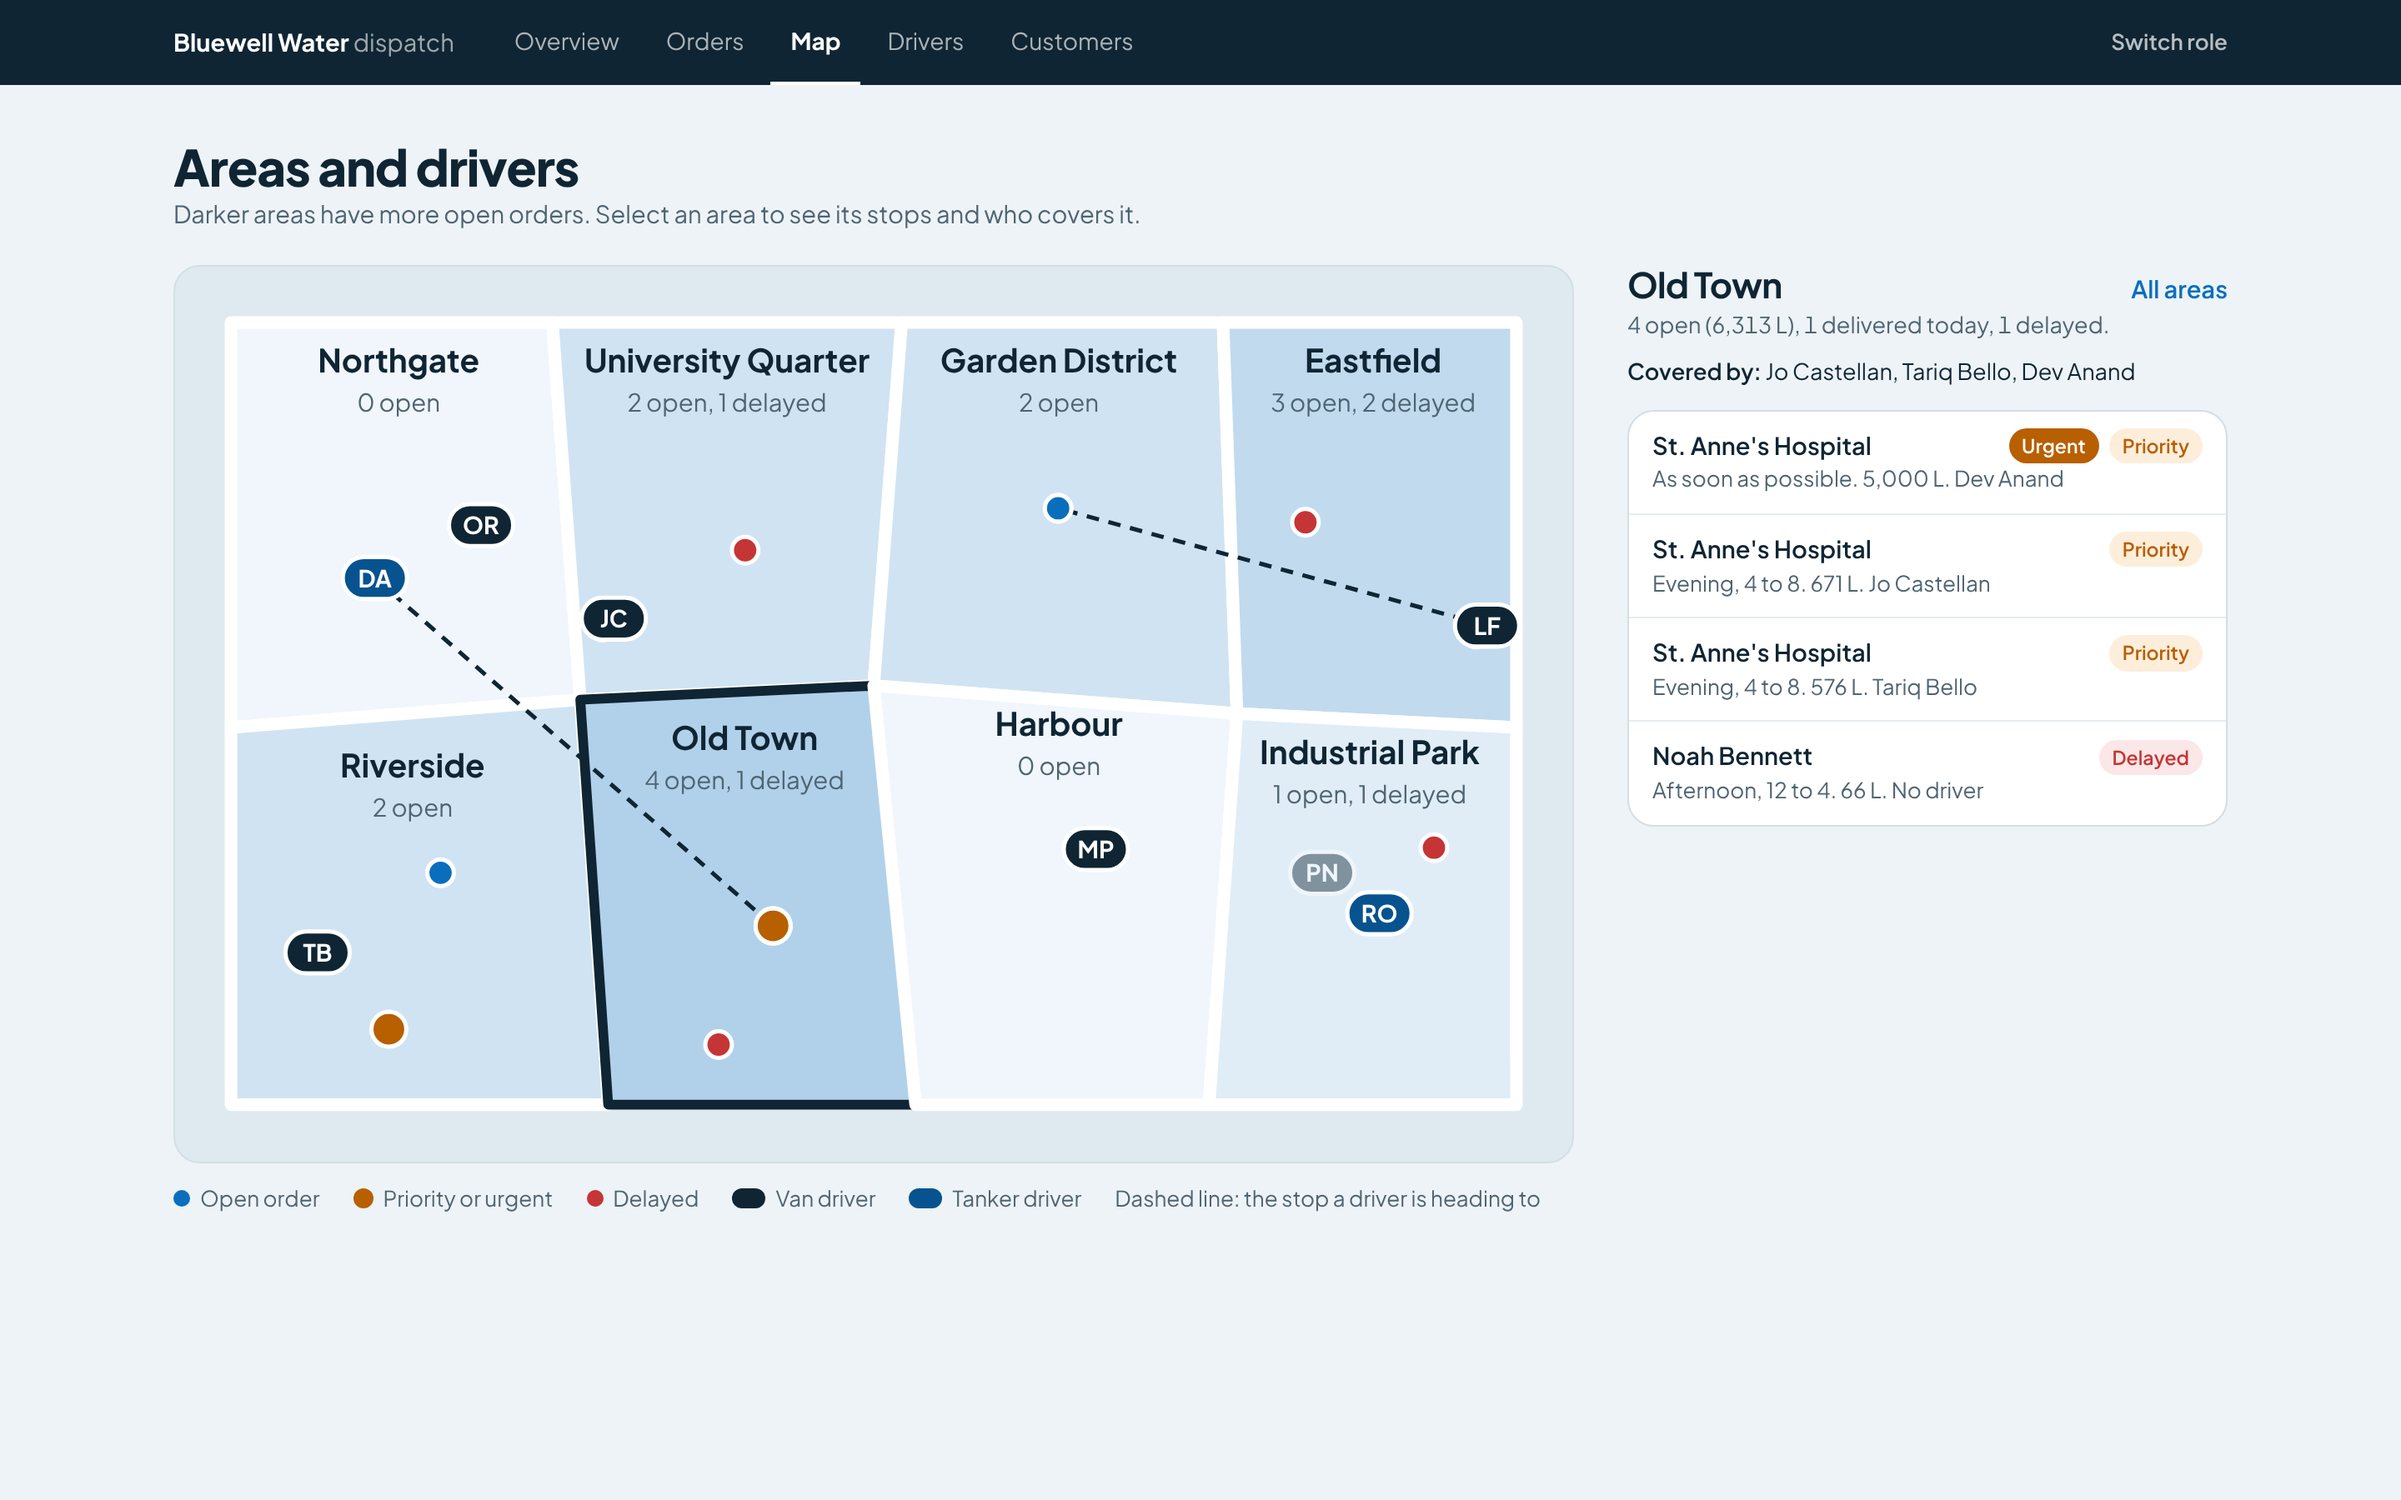
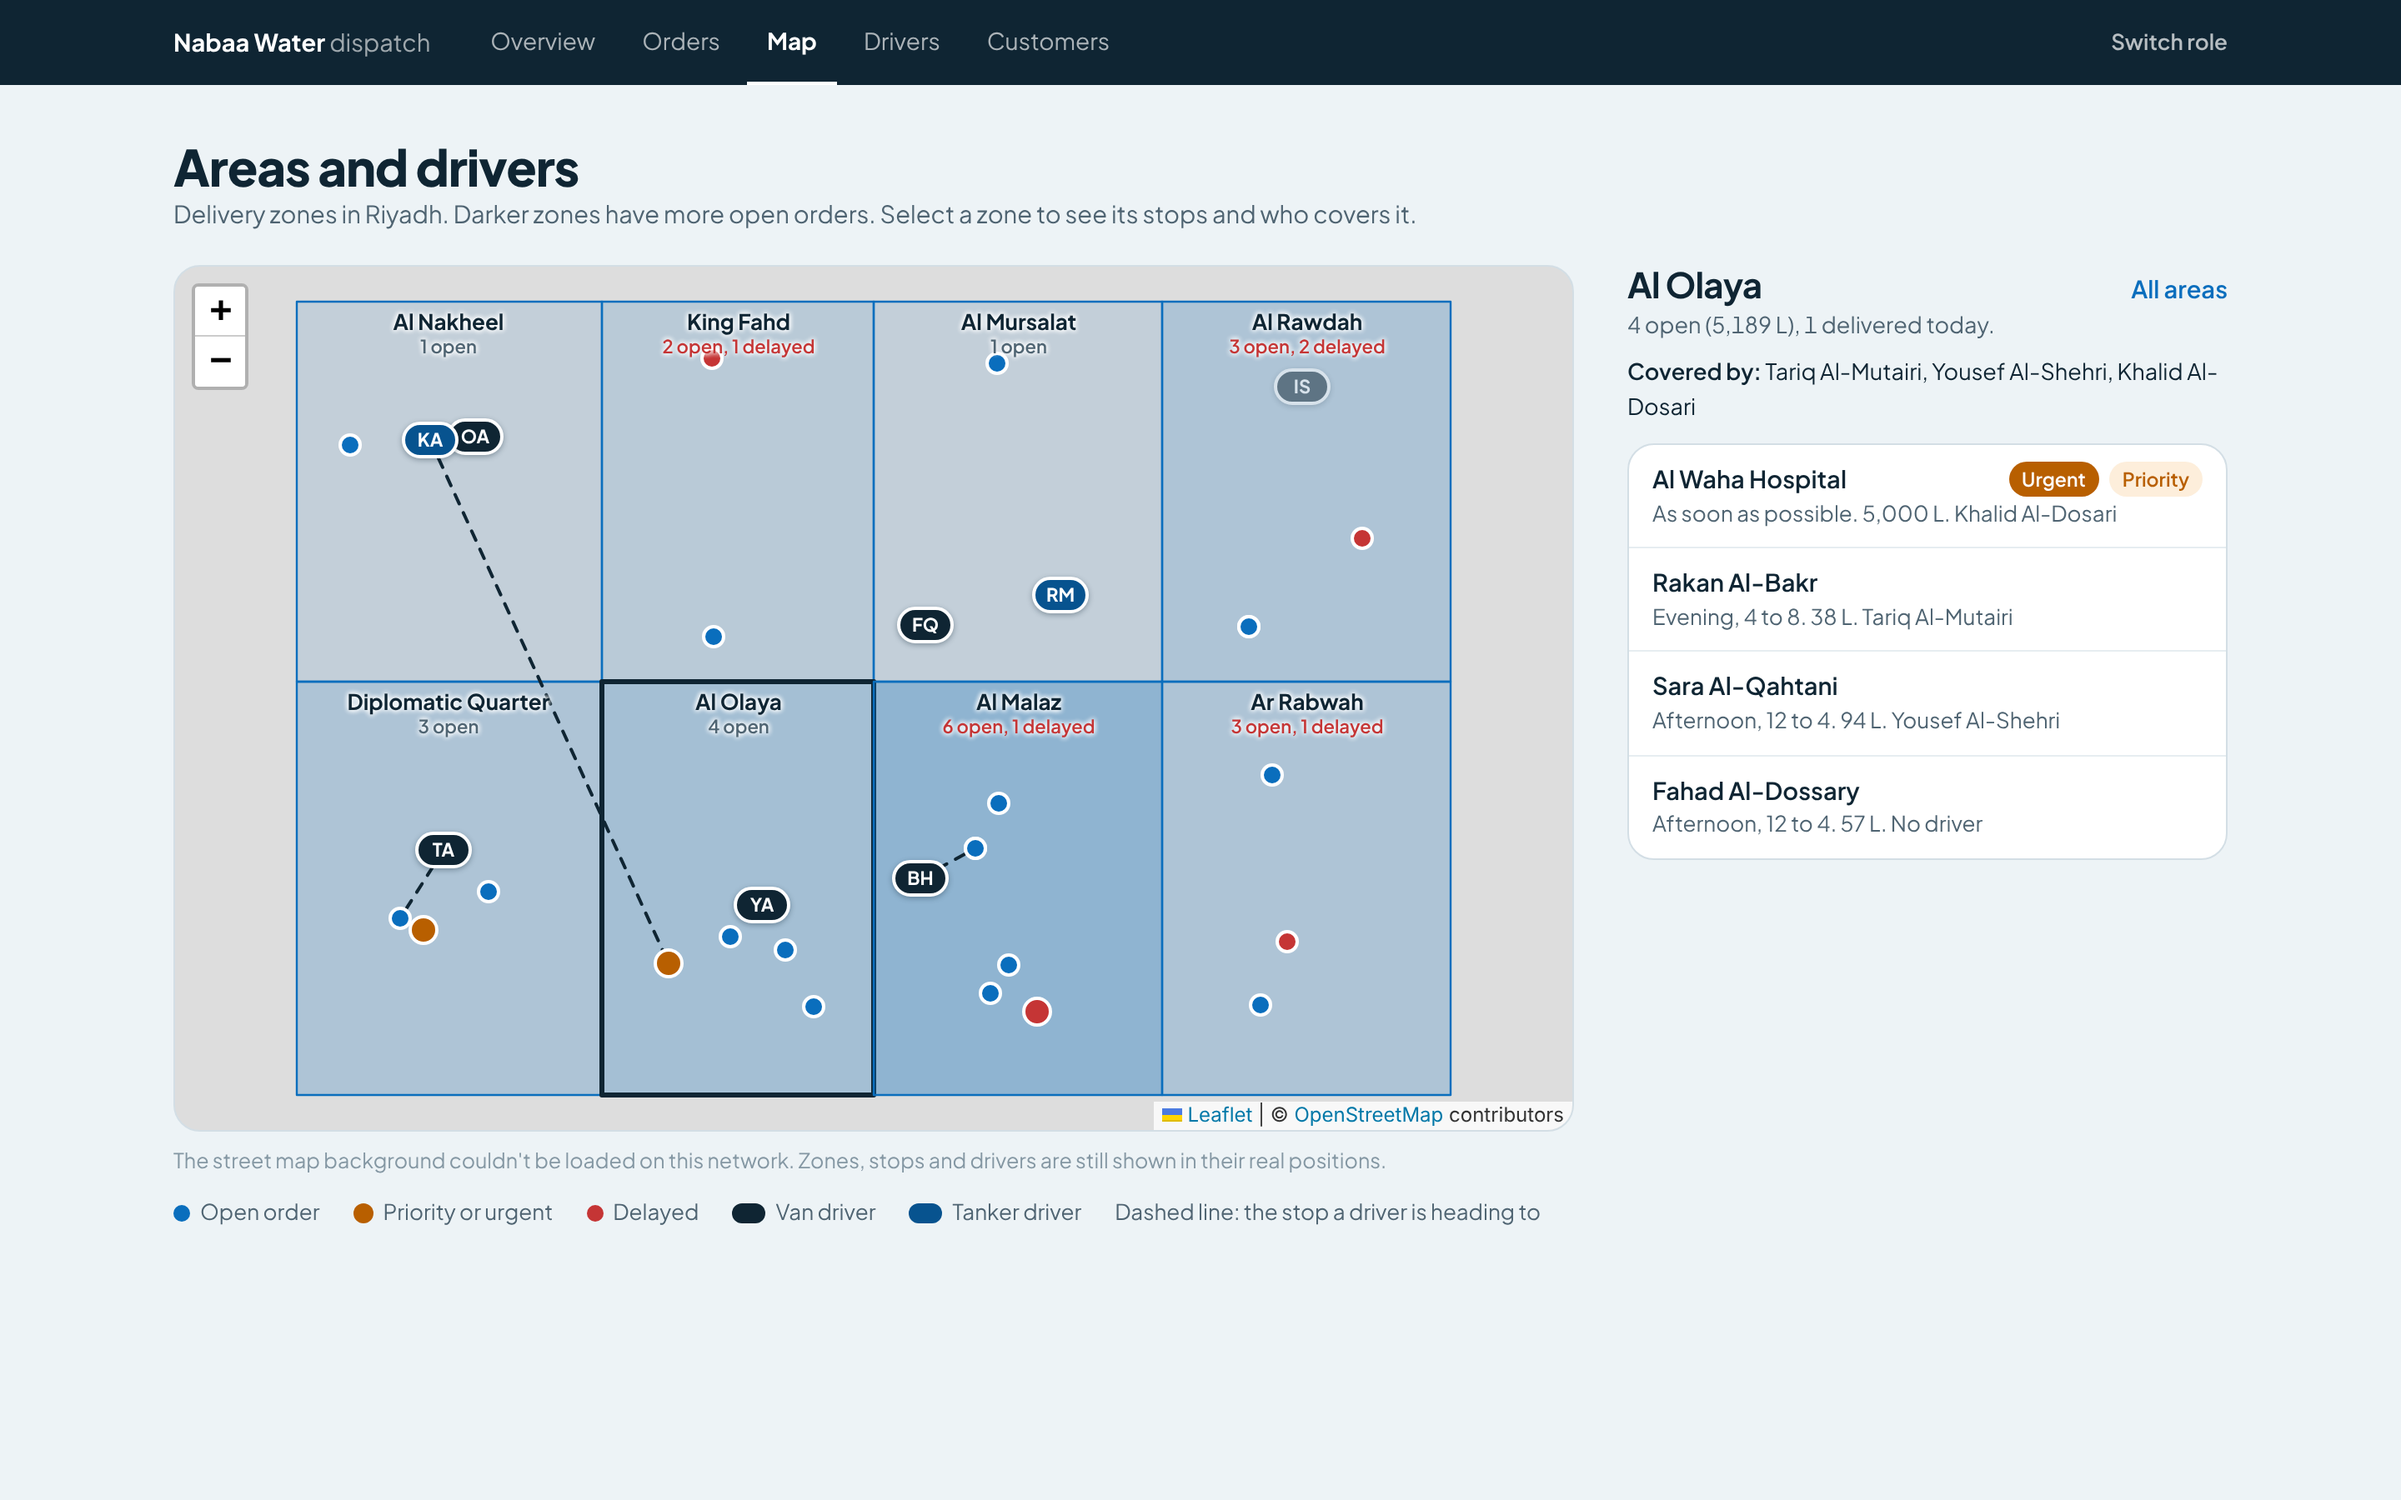
Update showcase: street map, online payment, Riyadh demo
Claude-Session: https://claude.ai/code/session_01M8SimBaVcYoYiN7jzU7DBg

diff --git a/README.md b/README.md
@@ -2,9 +2,9 @@
 
 **Online ordering, dispatch and a driver app for a water delivery business, in one system.**
 
-![A customer requesting urgent delivery from the nearest delivery person](screenshots/urgent-order.gif)
+![A customer ordering urgently and paying by card](screenshots/order-and-pay.gif)
 
-*Above: a customer adds bottles, taps "I need it now", sees the delivery people on duty nearby and sends the order to the nearest one.*
+*Above: a customer adds bottles, taps "I need it now", sees the delivery people on duty nearby, pays by card and the order goes to the nearest one.*
 
 ---
 
@@ -18,22 +18,23 @@ Most water delivery businesses run on phone calls, chat messages and a notebook.
 - **Order the way they think about water:** by the bottle (19 L, 5 L, packs), or in bulk by the litre or gallon for a tanker. The total shows in litres, gallons and bottle count as they build the order.
 - **Book delivery to the door:** pick a date and a morning, afternoon or evening slot, up to 30 days ahead.
 - **Get it urgently:** see the delivery people on duty nearby with distance and arrival time, call them, or send the order straight to one.
+- **Pay online or in cash:** by card when ordering, or cash on delivery. A paid order cancelled before it leaves is refunded automatically.
 - **Track it:** placed, driver assigned, on the way, delivered. Call the driver or cancel before it leaves.
 
-![Customer app: bottles, bulk order in gallons, and order tracking](screenshots/06-customer-app.png)
+![Customer app: bottles, bulk order in gallons, card payment and order tracking](screenshots/06-customer-app.png)
 
 ### For the office
-- **The numbers:** orders received, litres delivered in total, in bottles and by tanker (with gallons), and money collected, for today, 7 days or 30 days.
+- **The numbers:** orders received, litres delivered in total, in bottles and by tanker (with gallons), and revenue split into online and cash payments, for today, 7 days or 30 days.
 - **Priority deliveries:** hospitals, clinics and care homes are flagged automatically and listed first, with urgent requests.
 - **Delayed deliveries:** anything past its time slot and still not delivered.
 
 ![Dispatch overview](screenshots/02-dispatch-overview.png)
 
-- **Deliveries by date:** every day's orders with filters, search and one-click reassignment to another driver.
+- **Deliveries by date:** every day's orders with payment status, filters, search, one-click reassignment to another driver, and refunds for paid orders that couldn't be delivered.
 
 ![Orders by delivery date](screenshots/03-orders-by-date.png)
 
-- **Areas and drivers:** open orders in each area, each stop, and where every driver is and where they're heading.
+- **Areas and drivers on the map:** delivery zones in Riyadh on a street map (OpenStreetMap), with open orders in each zone, each stop, and where every driver is and where they're heading.
 
 ![Area map with drivers](screenshots/04-area-map.png)
 
@@ -44,6 +45,7 @@ Most water delivery businesses run on phone calls, chat messages and a notebook.
 ### For delivery people
 - Their own sign-in with their assigned areas and today's count: total stops, delivered, pending and delayed.
 - Stops listed in working order: urgent first, then priority customers, then by time slot.
+- Each stop shows whether to collect cash or that it's already paid online, with a Directions link.
 - Start delivery, mark delivered, report a problem, or call the customer. An urgent order a driver can't take passes to the next nearest driver automatically.
 
 <img src="screenshots/07-driver-app.png" alt="Driver app" width="420">
@@ -64,11 +66,11 @@ Bottle orders go to van drivers and bulk orders to tanker drivers. Each kind of 
 
 ## Built with
 
-Node.js and TypeScript (Express, SQLite), React and Tailwind, Docker. Covered by automated tests for pricing, unit conversion, booking rules, urgent matching, driver actions and access control.
+Node.js and TypeScript (Express, SQLite), React and Tailwind, Leaflet with OpenStreetMap, Docker. Covered by automated tests for pricing, unit conversion, booking rules, urgent matching, payments and refunds, driver actions and access control.
 
 ## About this demo
 
-The city, company and people are fictional. The map is a schematic of delivery areas with simulated driver positions; a production version would use real GPS from the driver's phone and a street map. Payment is cash on delivery.
+The company ("Nabaa Water") and the people are fictional. Card payments run in test mode: no money moves, and going live means connecting a payment gateway such as Moyasar, HyperPay or Tap with the business's merchant account. Driver positions are simulated; a production version takes GPS from the driver's phone. The map screenshot above was captured without the street background, which appears when the app is online.
 
 ## Try it or see the code
 
